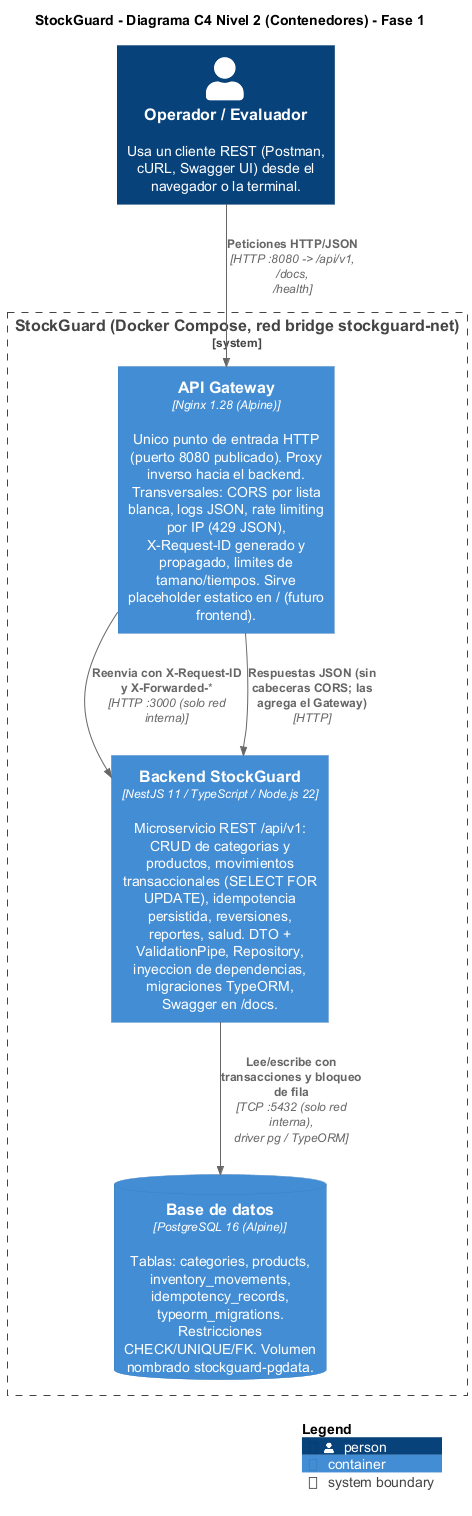
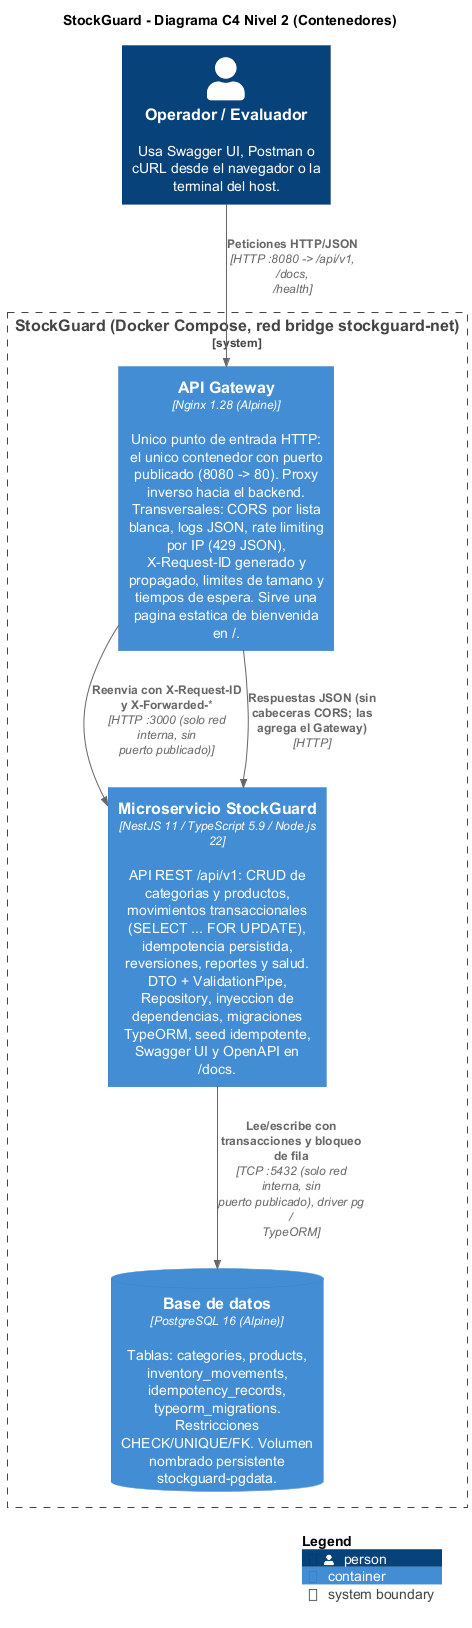
fix: isolate test environment, parametrize compose names and close scope without frontend
- docker-compose.test.yml no longer publishes a port: the Jest runner reaches PostgreSQL through the
  internal network. Host-side testing is now an explicit opt-in override (docker-compose.test.host.yml).
- test/setup-env.ts ignores the demo POSTGRES_* variables and only honours TEST_POSTGRES_*; test-app.ts
  refuses to run unless NODE_ENV=test, the database name ends in _test and current_database() matches.
- Container and volume names derive from COMPOSE_PROJECT_NAME so a second isolated instance can be
  started (clean-clone verification) without clashing with the main stack.
- HttpExceptionFilter keeps the X-Request-ID on body-parser errors (malformed JSON) so traceability is
  never lost.
- Remove every "phase 2 / frontend" reference from gateway, Swagger, Postman and C4 diagrams; the final
  scope is Gateway + NestJS + PostgreSQL demonstrated with Swagger, Postman and Docker.
- Bump version to 1.0.0 (package.json, Swagger, image tags).

Generated with [Devin](https://devin.ai)

Changed region(s): [[0.0297, 0.0, 0.9788, 0.9921]]

diff --git a/backend/test/test-app.ts b/backend/test/test-app.ts
@@ -25,9 +25,7 @@ export async function createTestApp(): Promise<TestContext> {
   await app.init();
   app.getHttpServer().setMaxListeners(0);
   const dataSource = app.get(DataSource);
-  if (dataSource.options.database !== 'stockguard_test' && !String(dataSource.options.database).includes('test')) {
-    throw new Error(`Proteccion: las pruebas solo se ejecutan contra una BD cuyo nombre contenga "test" (actual: ${String(dataSource.options.database)})`);
-  }
+  await assertIsolatedTestDatabase(dataSource);
   await dataSource.runMigrations({ transaction: 'each' });
 
   const reset = async () => {
@@ -41,6 +39,26 @@ export async function createTestApp(): Promise<TestContext> {
     reset,
     close: () => app.close(),
   };
+}
+
+/**
+ * Guardas contra ejecutar las pruebas (destructivas: TRUNCATE) sobre la BD de demostracion.
+ * No basta con el nombre: se exige NODE_ENV=test, que la conexion provenga de setup-env.ts
+ * (variables TEST_POSTGRES_*), un nombre con sufijo `_test` y que la BD realmente conectada
+ * (`current_database()`) coincida con la configurada.
+ */
+async function assertIsolatedTestDatabase(dataSource: DataSource): Promise<void> {
+  const configured = String(dataSource.options.database ?? '');
+  const fail = (reason: string) => {
+    throw new Error(`Proteccion de BD de pruebas: ${reason}. Las pruebas de integracion TRUNCAN tablas y solo se ejecutan contra la BD efimera de docker-compose.test.yml.`);
+  };
+  if (process.env.NODE_ENV !== 'test') fail(`NODE_ENV debe ser "test" (actual: ${process.env.NODE_ENV})`);
+  if (!/_test$/.test(configured)) fail(`el nombre de la BD debe terminar en "_test" (actual: "${configured}")`);
+  if (process.env.TEST_POSTGRES_DB !== undefined && process.env.TEST_POSTGRES_DB !== configured) {
+    fail(`TEST_POSTGRES_DB (${process.env.TEST_POSTGRES_DB}) no coincide con la BD configurada (${configured})`);
+  }
+  const [row] = (await dataSource.query('SELECT current_database() AS db, current_user AS usr')) as { db: string; usr: string }[];
+  if (row.db !== configured) fail(`la BD conectada (${row.db}) no coincide con la configurada (${configured})`);
 }
 
 export const api = (path: string) => `/${API_PREFIX}${path}`;

diff --git a/backend/test/setup-env.ts b/backend/test/setup-env.ts
@@ -2,18 +2,20 @@ import { config as loadDotenv } from 'dotenv';
 
 /**
  * Variables de entorno para las pruebas de integracion.
- * 1. Carga backend/.env si existe (host/puerto/credenciales de PostgreSQL).
- * 2. Fuerza SIEMPRE una base de datos separada (TEST_POSTGRES_DB, por defecto `stockguard_test`).
- * Las pruebas TRUNCAN las tablas de esa base de datos: nunca apuntar a la BD de demostracion.
+ * 1. Carga backend/.env si existe, pero SOLO para leer variables con prefijo TEST_POSTGRES_*.
+ *    Las variables POSTGRES_* del .env (entorno de demostracion) se ignoran deliberadamente:
+ *    las pruebas TRUNCAN tablas y nunca deben heredar la conexion de la BD de demostracion.
+ * 2. Los valores por defecto apuntan al PostgreSQL efimero de docker-compose.test.yml
+ *    (host 127.0.0.1:55432 cuando se publica el puerto; `db-test:5432` dentro del runner).
  */
 loadDotenv();
 
 process.env.NODE_ENV = 'test';
 process.env.LOG_LEVEL = process.env.TEST_LOG_LEVEL ?? 'error';
 process.env.SEED_ON_START = 'false';
-process.env.POSTGRES_HOST = process.env.TEST_POSTGRES_HOST ?? process.env.POSTGRES_HOST ?? '127.0.0.1';
-process.env.POSTGRES_PORT = process.env.TEST_POSTGRES_PORT ?? process.env.POSTGRES_PORT ?? '55432';
-process.env.POSTGRES_USER = process.env.TEST_POSTGRES_USER ?? process.env.POSTGRES_USER ?? 'stockguard';
-process.env.POSTGRES_PASSWORD = process.env.TEST_POSTGRES_PASSWORD ?? process.env.POSTGRES_PASSWORD ?? 'change_me_local_only';
+process.env.POSTGRES_HOST = process.env.TEST_POSTGRES_HOST ?? '127.0.0.1';
+process.env.POSTGRES_PORT = process.env.TEST_POSTGRES_PORT ?? '55432';
+process.env.POSTGRES_USER = process.env.TEST_POSTGRES_USER ?? 'stockguard';
+process.env.POSTGRES_PASSWORD = process.env.TEST_POSTGRES_PASSWORD ?? 'test_only_password';
 process.env.POSTGRES_DB = process.env.TEST_POSTGRES_DB ?? 'stockguard_test';
 process.env.PAGINATION_MAX_LIMIT = '50';

diff --git a/backend/src/common/filters/http-exception.filter.ts b/backend/src/common/filters/http-exception.filter.ts
@@ -34,9 +34,12 @@ export class HttpExceptionFilter implements ExceptionFilter {
     const req = ctx.getRequest<Request>();
 
     const { status, code, message, details } = this.normalize(exception);
+    // Los errores del body-parser (JSON malformado) ocurren antes del RequestIdMiddleware:
+    // se recupera el identificador que propaga el Gateway para no perder la trazabilidad.
+    const requestId = req.requestId ?? req.header('x-request-id') ?? res.getHeader('X-Request-ID')?.toString() ?? 'unknown';
     if (status >= 500) {
       this.logger.error(
-        JSON.stringify({ requestId: req.requestId, path: req.originalUrl, error: exception instanceof Error ? exception.message : String(exception) }),
+        JSON.stringify({ requestId, path: req.originalUrl, error: exception instanceof Error ? exception.message : String(exception) }),
         exception instanceof Error ? exception.stack : undefined,
       );
     }
@@ -48,7 +51,7 @@ export class HttpExceptionFilter implements ExceptionFilter {
       ...(details !== undefined ? { details } : {}),
       timestamp: new Date().toISOString(),
       path: req.originalUrl,
-      requestId: req.requestId,
+      requestId,
     };
     res.status(status).json(body);
   }

diff --git a/backend/src/swagger.ts b/backend/src/swagger.ts
@@ -36,14 +36,15 @@ Obligatoria en \`POST /movements\` y \`POST /movements/{id}/reversal\`.
 Formato unico: \`{ statusCode, code, message, details?, timestamp, path, requestId }\`.
 El \`requestId\` lo genera el Gateway (cabecera \`X-Request-ID\`) y permite correlacionar logs.
 
-> Esta primera fase **no incluye autenticacion**: pensada para demostracion local detras del Gateway Nginx.
+> El sistema **no incluye autenticacion ni frontend**: esta pensado para demostracion local detras del Gateway Nginx,
+> consumido con Swagger UI, Postman o cURL.
 `;
 
 export function setupSwagger(app: INestApplication) {
   const config = new DocumentBuilder()
     .setTitle('StockGuard API')
     .setDescription(DESCRIPTION)
-    .setVersion('0.1.0')
+    .setVersion('1.0.0')
     .setContact('Gonzalo Gabriel Apaza Ticona', '', '')
     .addServer('/', 'Gateway (mismo origen)')
     .addTag('Categorias', 'CRUD de categorias')

diff --git a/gateway/html/index.html b/gateway/html/index.html
@@ -13,7 +13,7 @@
 <body>
   <h1>StockGuard</h1>
   <p>API de control de inventario para una tienda de accesorios tecnologicos.<br />
-     Gateway Nginx activo. El frontend React/Vite se servira desde esta ruta en la segunda fase.</p>
+     Gateway Nginx activo: unico punto de entrada hacia el microservicio NestJS. Use Swagger UI, Postman o cURL.</p>
   <ul>
     <li><a href="/docs">Swagger UI</a> (<code>/docs</code>)</li>
     <li><a href="/docs/openapi.json">OpenAPI JSON</a> (<code>/docs/openapi.json</code>)</li>

diff --git a/postman/build-collection.js b/postman/build-collection.js
@@ -30,7 +30,7 @@ const errCode = (status, code) => [
 const collection = {
   info: {
     _postman_id: 'b7f2c9e1-4d35-4a8e-8f61-9c0d1e2f3a4b',
-    name: 'StockGuard API (fase 1)',
+    name: 'StockGuard API',
     description:
       'Coleccion de StockGuard a traves del Gateway Nginx ({{baseUrl}}).\n\n' +
       'Ejecutar las carpetas en orden (Runner o manualmente). Los IDs creados se guardan en el entorno.\n' +

diff --git a/backend/jest.config.js b/backend/jest.config.js
@@ -1,6 +1,6 @@
 /** @type {import('jest').Config} */
 const base = {
-  transform: { '^.+\\.ts$': ['ts-jest', { tsconfig: '<rootDir>/tsconfig.json' }] },
+  transform: { '^.+\\.ts$': ['ts-jest', { tsconfig: '<rootDir>/tsconfig.json', diagnostics: { ignoreCodes: [151002] } }] },
   moduleFileExtensions: ['ts', 'js', 'json'],
   rootDir: '.',
 };
